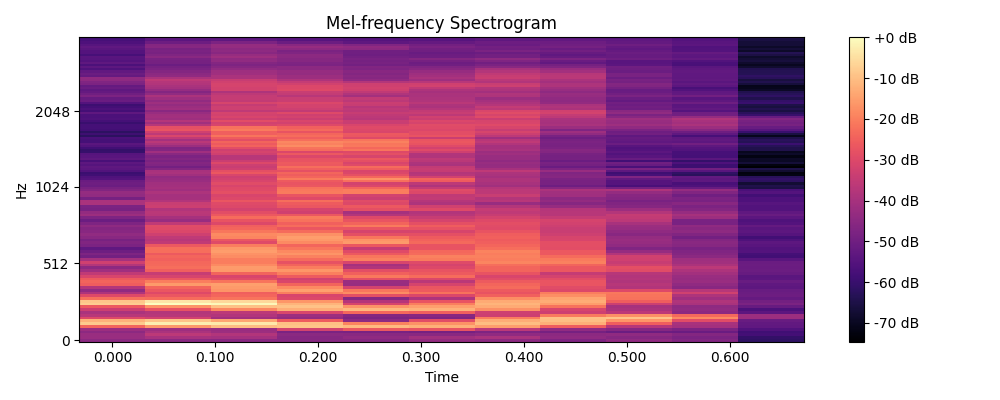
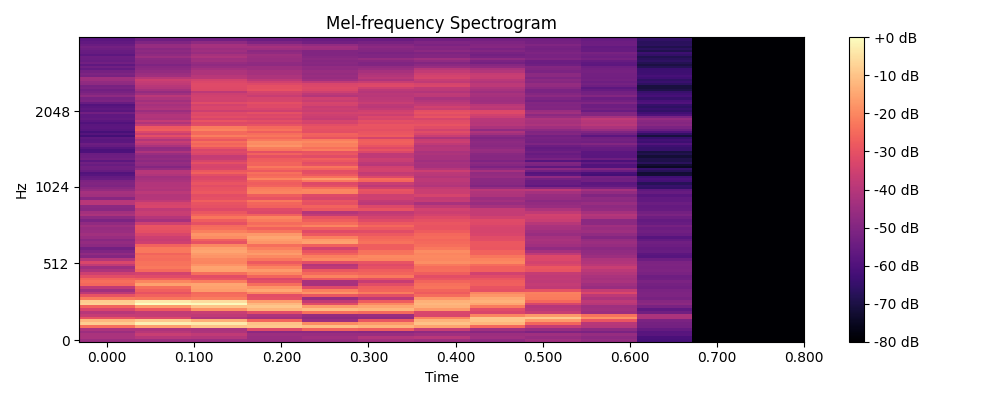
output

diff --git a/src/audioProcessor.py b/src/audioProcessor.py
@@ -45,12 +45,19 @@ class AudioProcessor:
 
         # Convert to spectrogram
         logger.info(f"Converting to {spec_func} spectrogram")
-        spec = spectogram_func[spec_func](y=waveform, sr=sr)
         
-        if power_to_db:
-            return librosa.power_to_db(spec, ref=np.max)
+        if  spec_func == "stft":
+            # Convert to spectrogram
+            spec = librosa.stft(waveform)
+            # Log-scale frequency axis so that both positive and negative frequencies can be clearly see
+            spec_db = librosa.amplitude_to_db(np.abs(spec))
+            return spec_db
+        else :
+            spec = spectogram_func[spec_func](y=waveform, sr=sr)
+            if power_to_db:
+                return librosa.power_to_db(spec, ref=np.max)
         
-        return spec
+            return spec
     
     def plot_spectogram(self, spec, title="Mel spectrogram"):
         logger.info("Plotting Spectogram")
@@ -62,7 +69,7 @@ class AudioProcessor:
         filename = title.replace(" ", '')
         plt.savefig(join(self.output_folder, filename + ".png"))
         plt.close()
-
+        
     def plot_waveform(self, waveform, title="Waveform"):
         logger.info("Plotting waveform")
         plt.figure(figsize=(10, 4))

diff --git a/plots_save.py b/plots_save.py
@@ -14,7 +14,7 @@ longest_audio = data.remove_silence(longest_audio)
 data.plot_waveform(longest_audio, title = "Longest audio signal after trimming")
 
 # add padding
-longest_audio = data.padding(longest_audio, len(longest_audio)+1000)
+longest_audio = data.padding(longest_audio, len(longest_audio)+2000)
 
 # plot waveform
 data.plot_waveform(longest_audio, title="Longest audio signal after trimming and add padding")
@@ -32,8 +32,7 @@ spectogram = data.spectogram(longest_audio,"chroma_stft", power_to_db=True)
 data.plot_spectogram(spectogram, "chroma_stft")
 
 # stft
-longest_audio = data.remove_silence(longest_audio)
-spectogram = data.spectogram(longest_audio,"stft", power_to_db=True)
+spectogram = data.spectogram(longest_audio,"stft", power_to_db=False)
 data.plot_spectogram(spectogram, "stft")
 
                      
